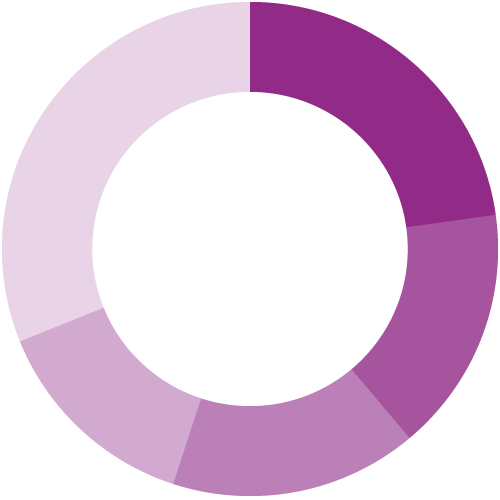
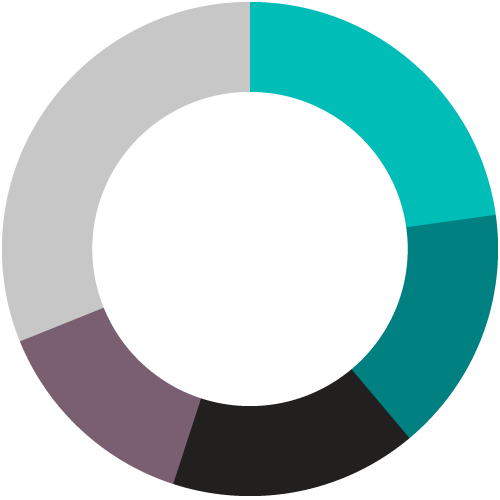
Copy changes to How Gov Works page
- copy changes to How Gov Works page
- change colours on donut graph to match org identity colours
- desaturate inside gov pale blue slightly

diff --git a/app/assets/stylesheets/frontend/views/_how-gov-works.scss b/app/assets/stylesheets/frontend/views/_how-gov-works.scss
@@ -115,19 +115,19 @@
         padding-left: $gutter-one-third;
       }
       .dwp strong {
-        border-color: #912b88;
+        border-color: #00beb7;
       }
       .hmrc strong {
-        border-color: #a755a0;
+        border-color: #008080;
       }
       .moj strong {
-        border-color: #bd80b8;
+        border-color: #231f20;
       }
       .mod strong {
-        border-color: #e3aacf;
+        border-color: #7A5F71;
       }
       .others strong {
-        border-color: #e9d5e7;
+        border-color: #c8c8c8;
       }
     }
     .caption {

diff --git a/app/assets/stylesheets/frontend/styleguide/_colours.scss b/app/assets/stylesheets/frontend/styleguide/_colours.scss
@@ -8,7 +8,8 @@ $detailed-guidance-brand: $light-blue;
 $detailed-guidance-background: #fafafa;
 
 $inside-gov-brand: #2E3191;
-$inside-gov-secondary: desaturate(adjust-hue(lighten(#0078ba, 30%), -10%), 30%);
+//$inside-gov-secondary: adjust-hue(lighten($inside-gov-brand, 40%), -25%);
+$inside-gov-secondary: desaturate(adjust-hue(lighten(#0078ba, 30%), -10%), 40%);
 $inside-gov-nav: #0B0C0C;
 $inside-gov-nav-dropdown: #888;
 
